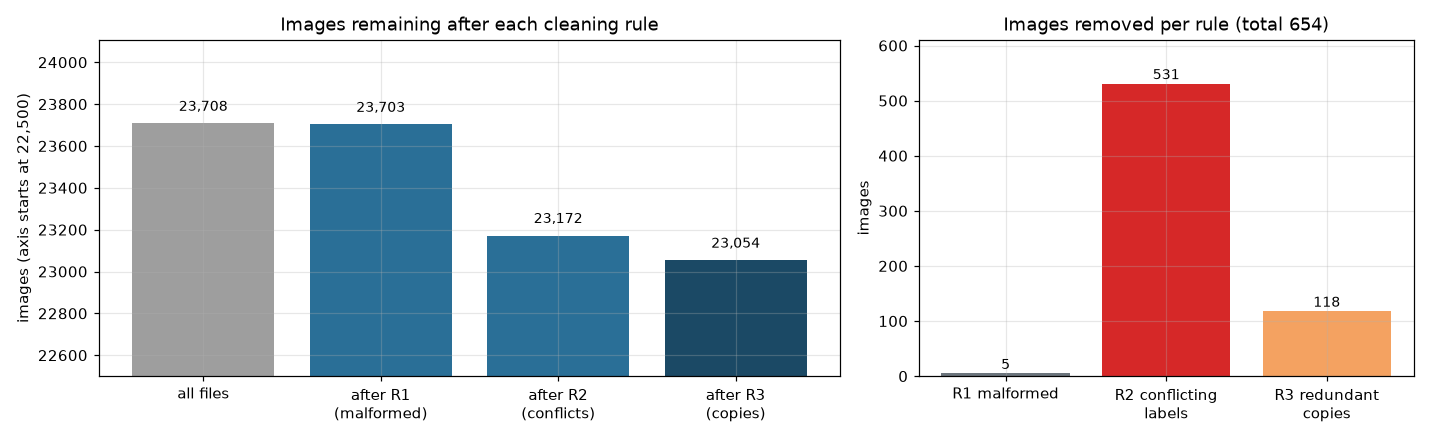
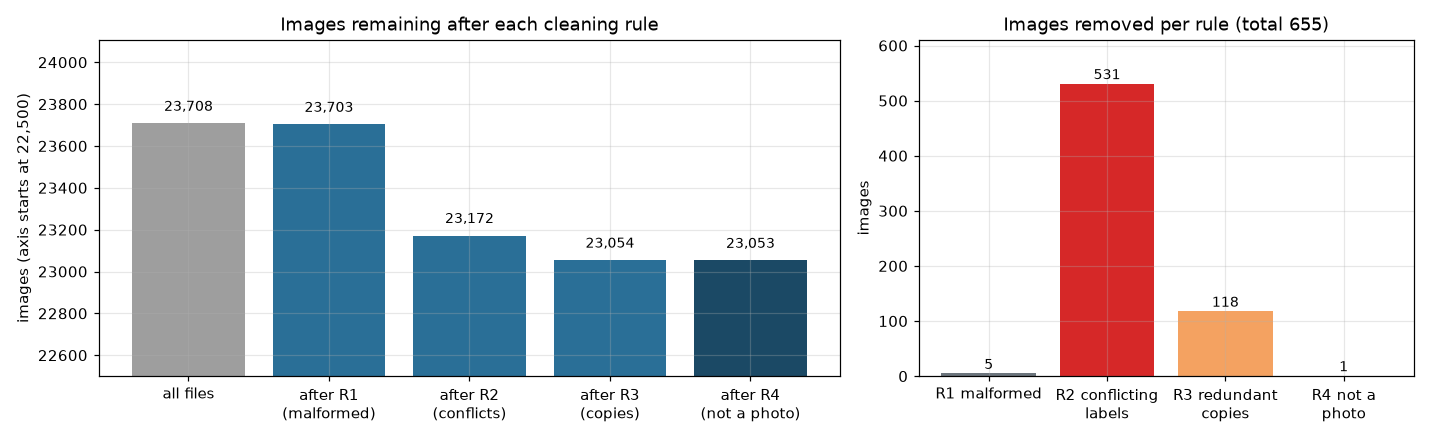
Cleaning R4 (remove pencil drawing), keep greyscale; start report notes
- section 8: rule R4 removes non-photographs listed in MANUAL_EXCLUDE
  (one pencil drawing) -> 23,053 clean images; chart shows 4 rules
- decision recorded: greyscale images kept (augmentation + separate eval)
- docs/report_notes.md: facts/sentences the report must include
- progress log and AI log updated

diff --git a/docs/report_notes.md b/docs/report_notes.md
@@ -1,0 +1,18 @@
+# Report notes (things the technical report must mention)
+
+Collected while working, so nothing is forgotten when the report is written. Numbers come from `src/01_data_exploration.ipynb`.
+
+## Dataset and cleaning (Section: problem and dataset)
+- UTKFace aligned & cropped, 23,708 files (200×200 RGB). Source: the official Google Drive link is dead, so we used a Hugging Face re-upload pinned by revision and verified by SHA-256. Cite Zhang, Song & Qi (CVPR 2017); non-commercial research licence.
+- Label noise found by MD5 hashing: 375 groups of byte-identical images, of which 259 have conflicting labels (age gap up to 48 years). Limitation: only exact copies are detected, not re-encoded near-duplicates.
+- Cleaning (notebook section 8):
+  - R1: drop 5 malformed filenames.
+  - R2: drop all 531 images of conflicting duplicate groups.
+  - R3: keep one copy of each consistent group (118 dropped).
+  - R4: **"One non-photographic image (a pencil drawing) was removed after visual inspection."** The dataset may contain a few more such images; we did not inspect all 23k images by eye.
+  - Result: 23,053 images. Label distributions change by at most ~0.2 percentage points.
+- Greyscale: 868 images (3.66 %) are black-and-white (tint-free chroma score tf < 2.5; a naive |R−G| test missed sepia prints). **Kept**: valid faces and labels, and removing them would shift the race balance. Shortcut risk ("b&w means not a child", since only 0.7 % of ages 0–2 are b&w) handled by random-greyscale augmentation and measured by reporting the error on b&w vs. colour test images.
+
+## Bias analysis (Section: bias)
+- Age and group are confounded (0–2 band 39 % Asian; 80+ band 72 % White; women dominate ages 3–29, men 40–69). The constant predictor already gives very different per-group MAE (Black 10.6 vs. White 17.9). So report per-group MAE **within age bands** and/or the improvement over the constant baseline per group.
+- Strong age heaping at 40–90 (multiples of 10 occur 2.4–5.9× more often than their neighbours): many labels of older people are estimates, which puts a floor on the reachable error.

diff --git a/ai_usage/ai_log.md b/ai_usage/ai_log.md
@@ -20,6 +20,7 @@ Put full chat exports in `ai_usage/transcripts/` (Claude Code: export each sessi
 | 2026-11-04 | work-pc | Pie chart of greyscale vs. colour over the whole dataset | Section 6.1: checks all 23,703 images (not a 2,000 sample): 679 greyscale (2.86 %), plus greyscale share per age band / race / gender, which shows a possible shortcut | I stopped the AI from moving on to cleaning and the split: I decide the cleaning after the analysis |
 | 2026-11-04 | work-pc | Explain the tf formula | Step-by-step formula plus worked examples. The first explanation dropped minus signs and skipped steps in the "colour photo" example; it was re-explained in full when I said I didn't understand | Kept the corrected step-by-step version |
 | 2026-11-04 | work-pc | Run only new notebook cells; cleaning section 8: drop conflicting duplicate groups, keep one copy of consistent ones | `scripts/run_notebook_cells.py`; section 8 with rules R1–R3, sanity asserts, removal charts, before/after distribution check, clean CSV (23,054 images) | |
+| 2026-11-04 | work-pc | What is the "pencil drawing"? Should greyscale images be removed? | Showed the drawing (labelled 76 y). Recommended keeping greyscale (valid labels; removing would shift race balance) and handling the shortcut by augmentation + separate evaluation | Kept greyscale. Removed the drawing as R4 → 23,053 images. I first wanted to remove it without reporting; the AI advised reporting it (reproducibility, oral exam), and I agreed |
 
 ## Cases where the AI was wrong / incomplete / misleading (need ≥ 3)
 | # | Date | What the AI said | How I detected it | Fix |

diff --git a/.claude/context/progress.md b/.claude/context/progress.md
@@ -9,7 +9,12 @@ Newest entries on top. Each entry: date, machine, what was done, decisions (with
 - Distribution barely changed: the largest change in any gender/race/age-band share is 0.22 percentage points. R2 removed relatively more Indian (22.8 % vs. 16.8 %) and Others (12.8 % vs. 7.1 %) images.
 - Added `scripts/run_notebook_cells.py` (run only selected cells).
 
-**Not decided yet (user):** greyscale photos (868), the pencil drawing, anything else. Still in the analysis/cleaning phase; no split yet.
+**Decided later the same day (user):**
+- **R4:** remove the pencil drawing `76_0_1_20170116205556715.jpg.chip.jpg` (not a photo), leaving **23,053 clean images**. **Mention it in the report** (one sentence; the user agreed after first wanting to leave it out).
+- **Keep the greyscale images (868).** Handle the shortcut with random-greyscale augmentation and report the error on b&w vs. colour test images. Optional ablation: greyscale (1-channel) input for the own CNN (green angle).
+- `docs/report_notes.md` started: facts and sentences the report must include.
+
+**Still open:** anything else the user wants to analyse; no split yet.
 
 ## 2026-11-04 (2) · work-pc
 **Done**
